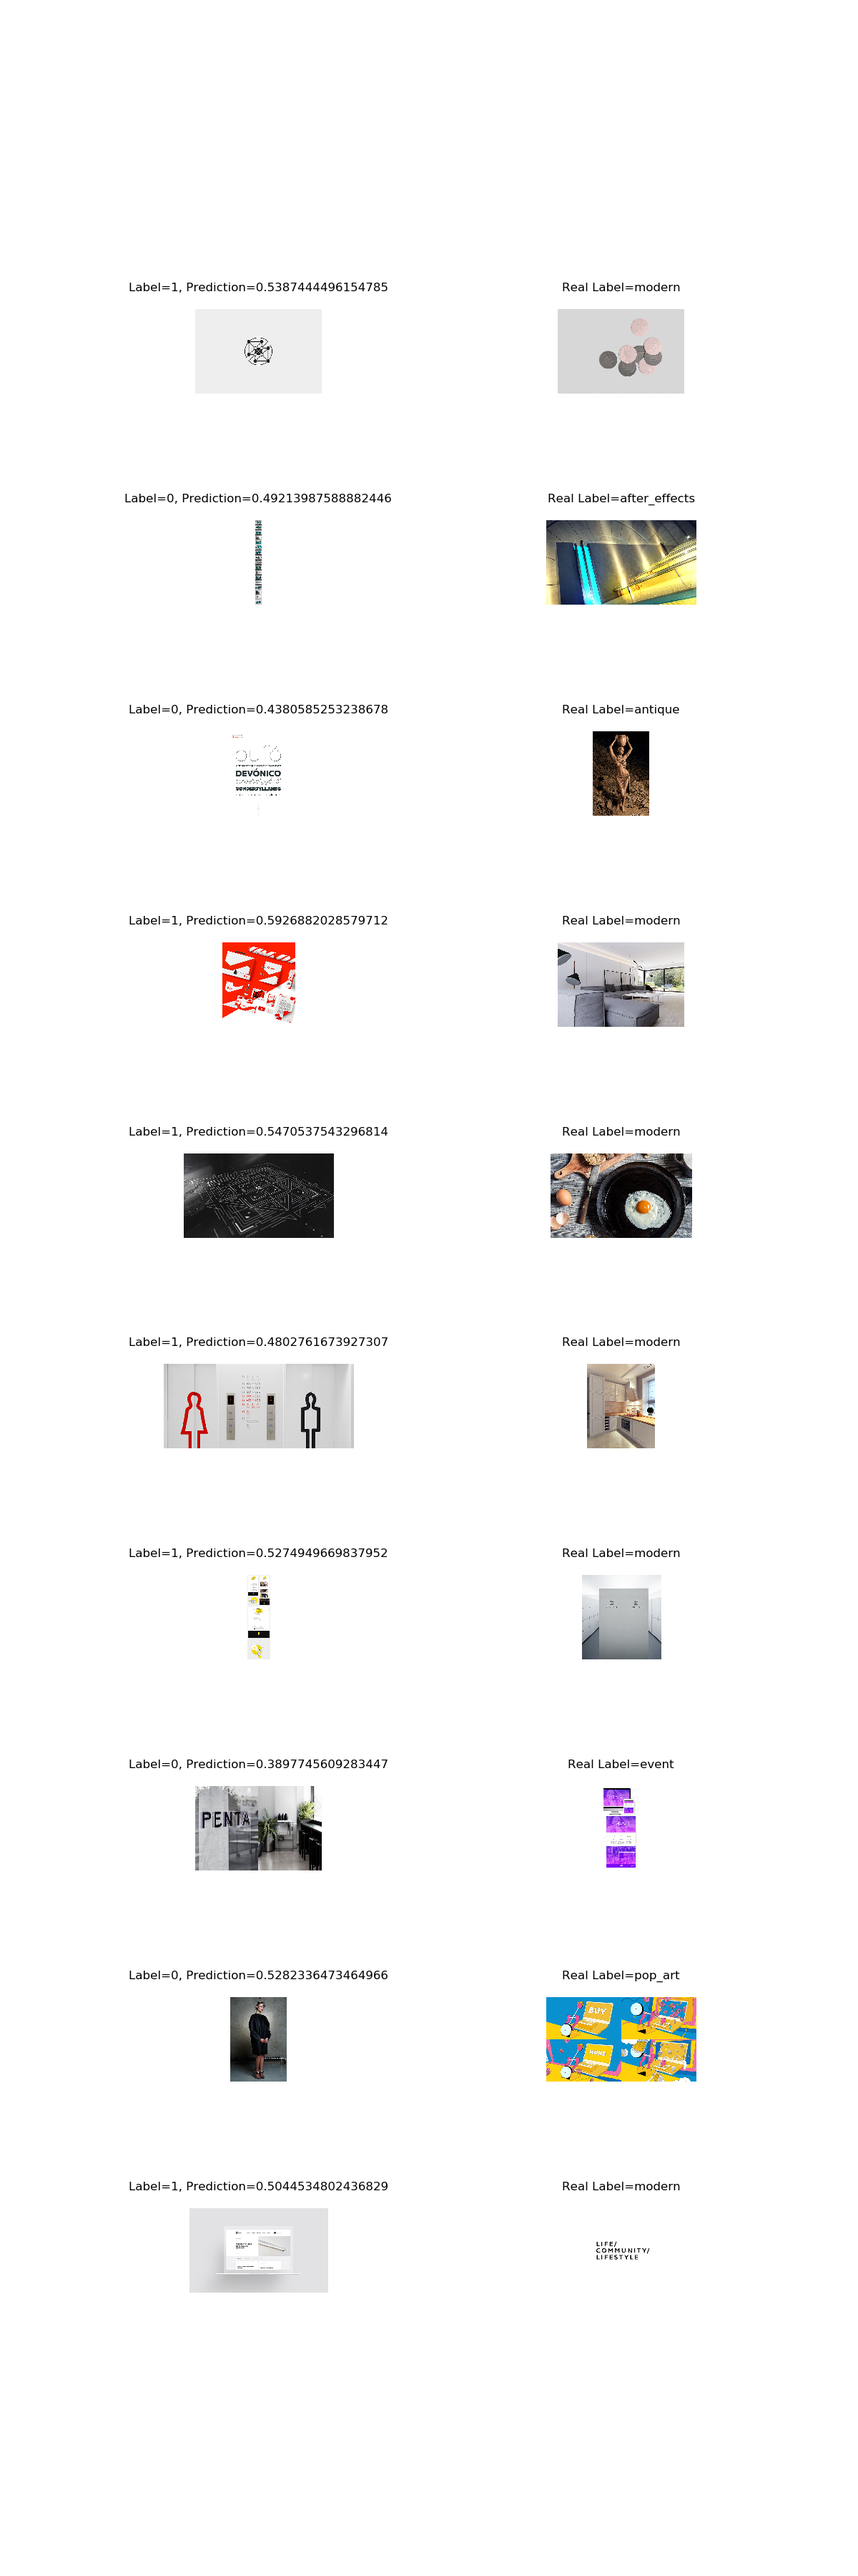
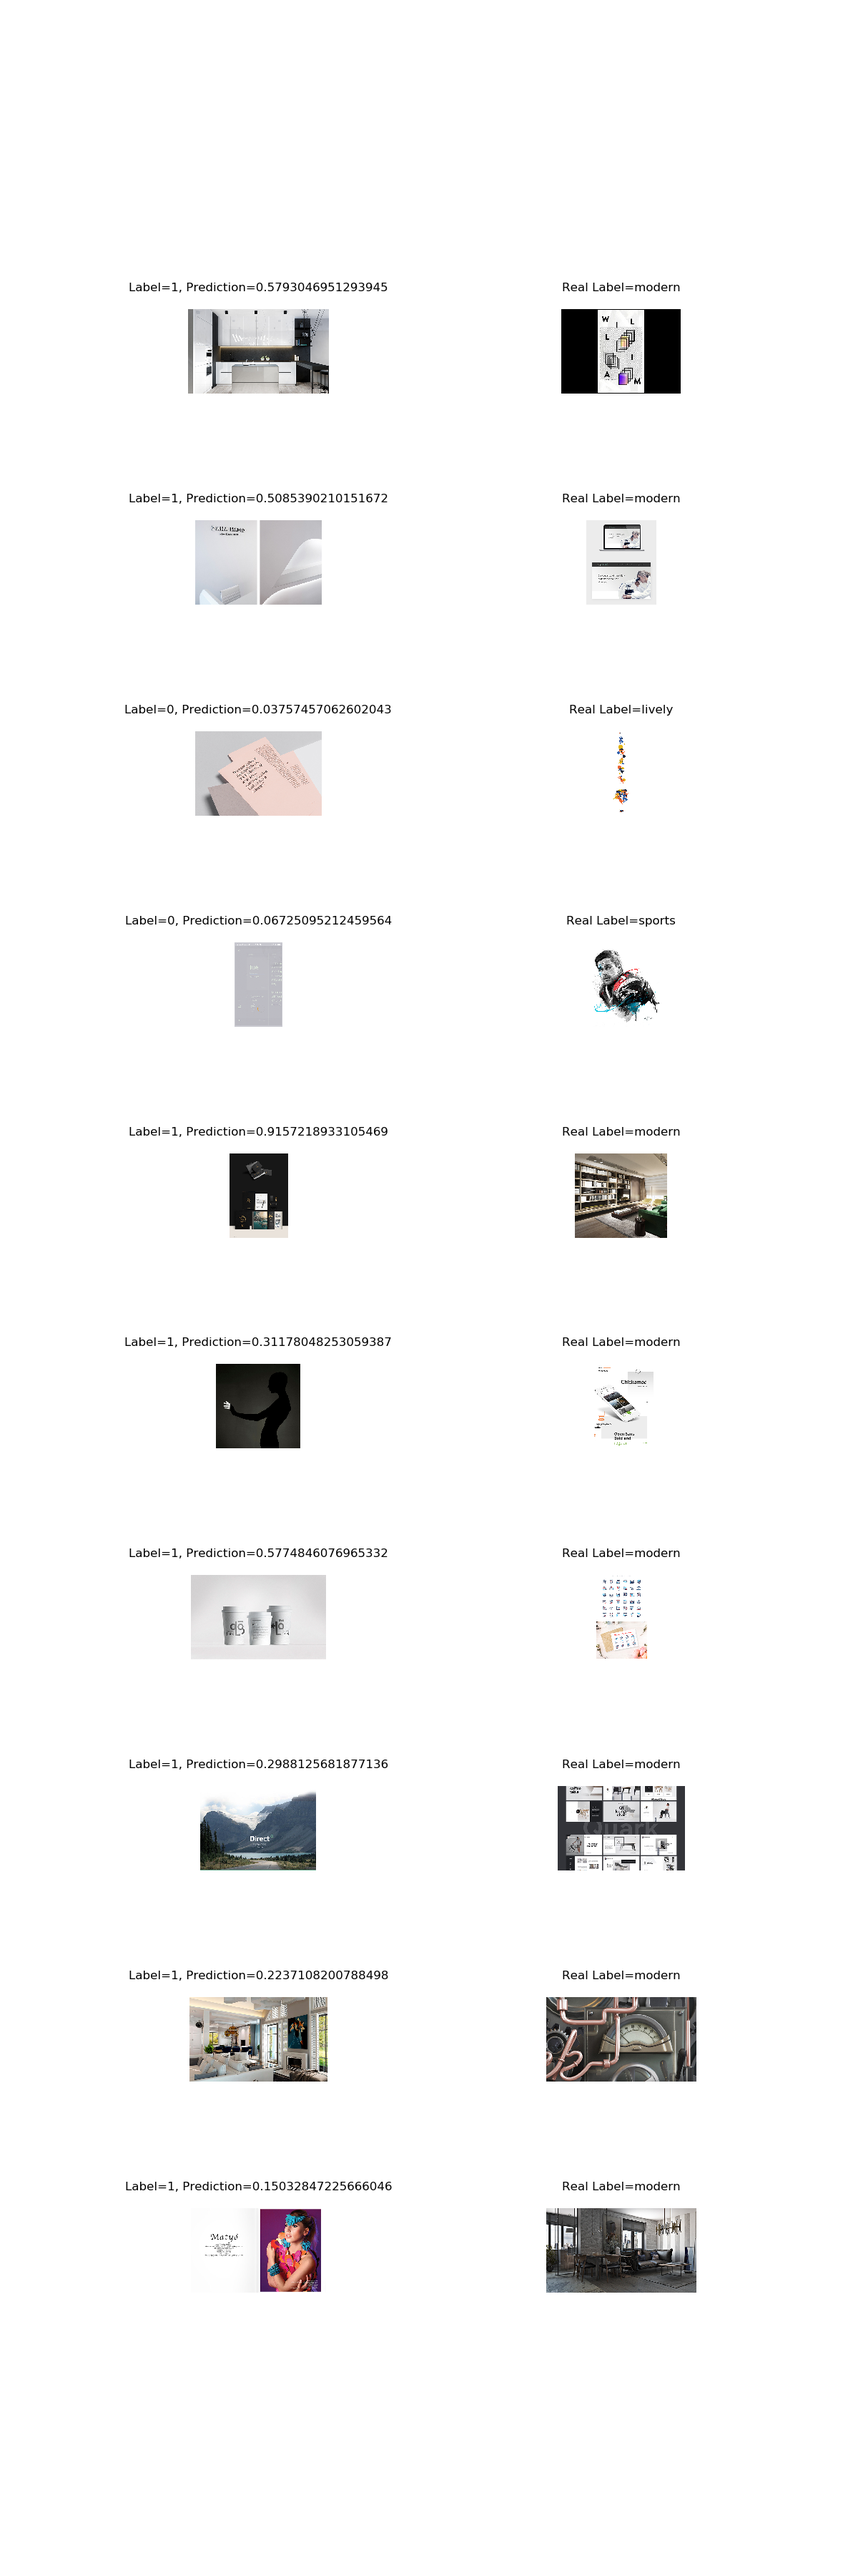
correct the structure of siamese network, update readme file and update result images.

diff --git a/siamese_network.py b/siamese_network.py
@@ -90,7 +90,6 @@ class SiameseNetwork(nn.Module):
         self.cnn = nn.Sequential(*list(self.pretrained_model.children())[:-2])
         self.fc = nn.Linear(in_features=512 * 7 * 7, out_features=1024)
         self.drop = nn.Dropout()
-        self.acti = nn.Sigmoid()
         self.final = nn.Linear(in_features=2048, out_features=1)
         self.final_acti = nn.Sigmoid()
 
@@ -99,8 +98,8 @@ class SiameseNetwork(nn.Module):
         output2 = self.cnn(x2)
         output1 = output1.view((-1, 512 * 7 * 7))
         output2 = output2.view((-1, 512 * 7 * 7))
-        output1 = self.acti(self.drop(self.fc(output1)))
-        output2 = self.acti(self.drop(self.fc(output2)))
+        output1 = self.drop(self.fc(output1))
+        output2 = self.drop(self.fc(output2))
         result = self.final(torch.cat((output1, output2), dim=1))
         result = self.final_acti(result)
 

diff --git a/readme.md b/readme.md
@@ -7,12 +7,12 @@ Data is not available because it is provided by Tezign Tongji Design AI Lab.(she
 
 # Model
 This work is inspired by *Siamese neural networks for one-shot image recognition*[1].
-Model in this work is different from model in this paper.
-This work uses pre-trained ResNet34[2] as the basic, change the structure of last few layers and then fine-tune it.
+Model in this work is different from model in this paper.  
+This work uses pre-trained ResNet34[2] as the basic, get the features from the last convolutional layer and add a fully connected layer. There are 2 this structure in siamese network with shared weight, followed by a fully connected layer(get 2 inputs at a time) and sigmoid function.
 
 # Result
-The result looks good on training and test set, but verification on the large-scale design dataset is not available due to the lack of the data.
-Here are some results:  
+The result looks good on training and test set, but verification on the large-scale design dataset is not available due to the lack of the data.  
+Here are some results for "modern". In each line there are two pictures, the first one is in modern style, and the second one can be the same or others. Text above the images shows the label annotated by human(1 for same style and 0 for different style), results predicted by this model and the label of the second image.  
 ![image](https://raw.githubusercontent.com/zhuojg/siamese_network_for_style/master/result/result1.png)  
 ![image](https://raw.githubusercontent.com/zhuojg/siamese_network_for_style/master/result/result2.png)
 
